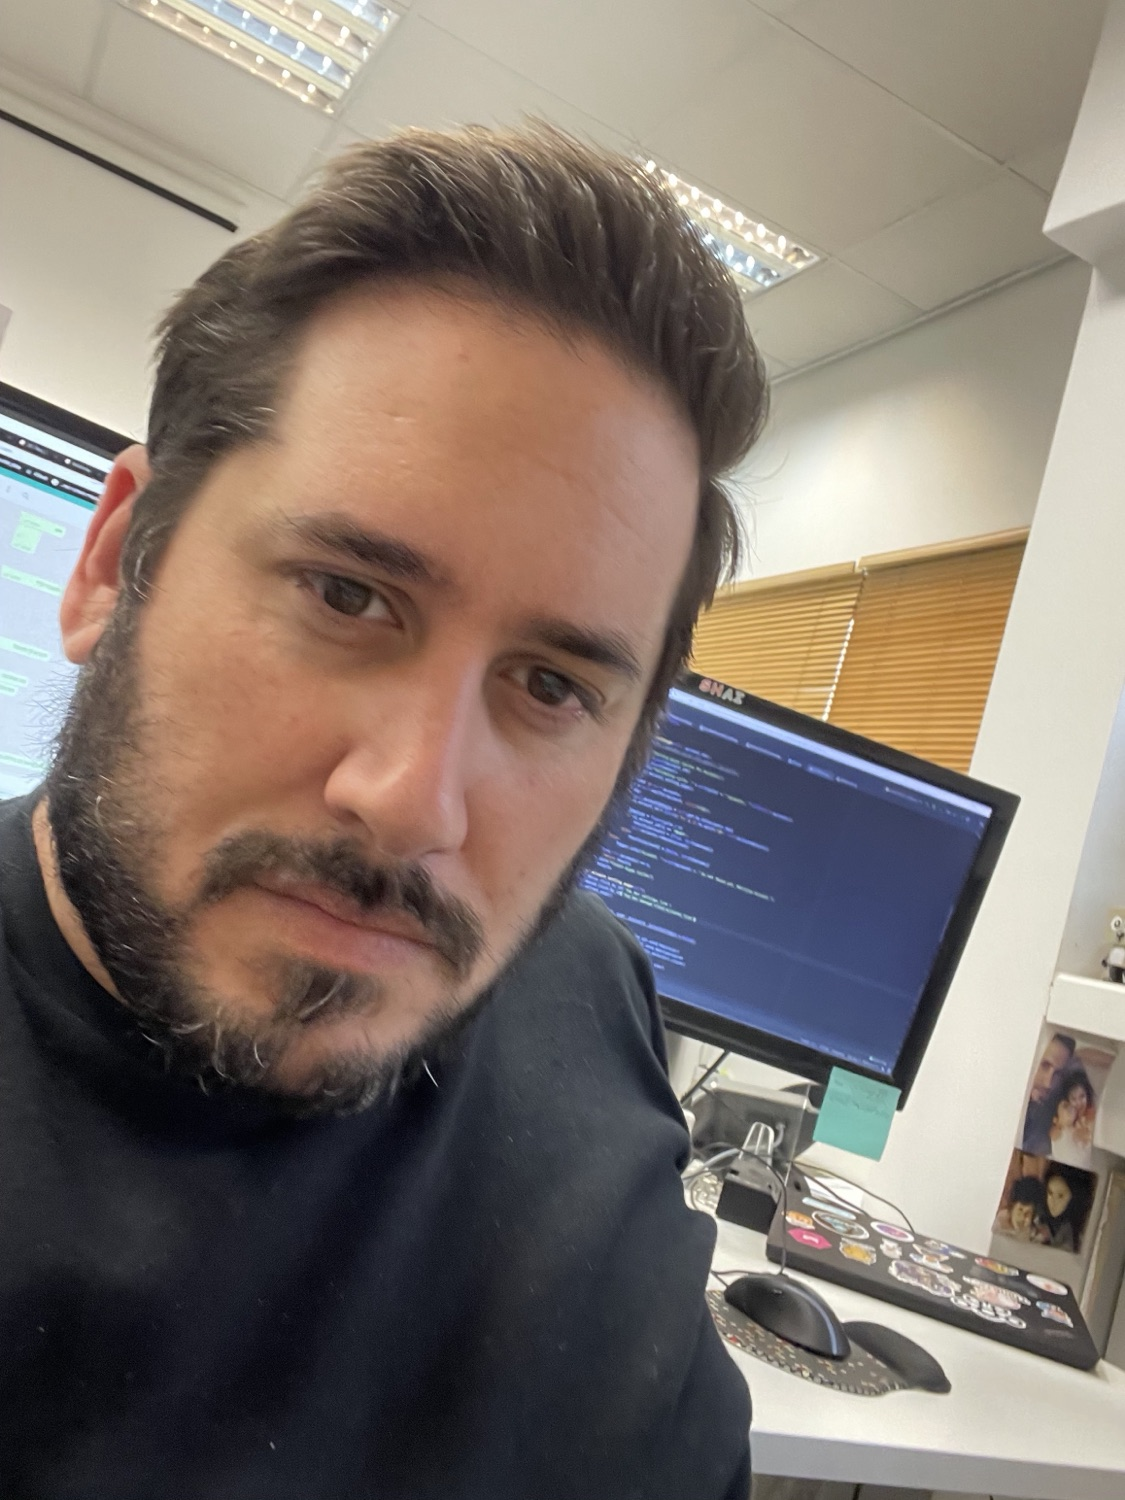
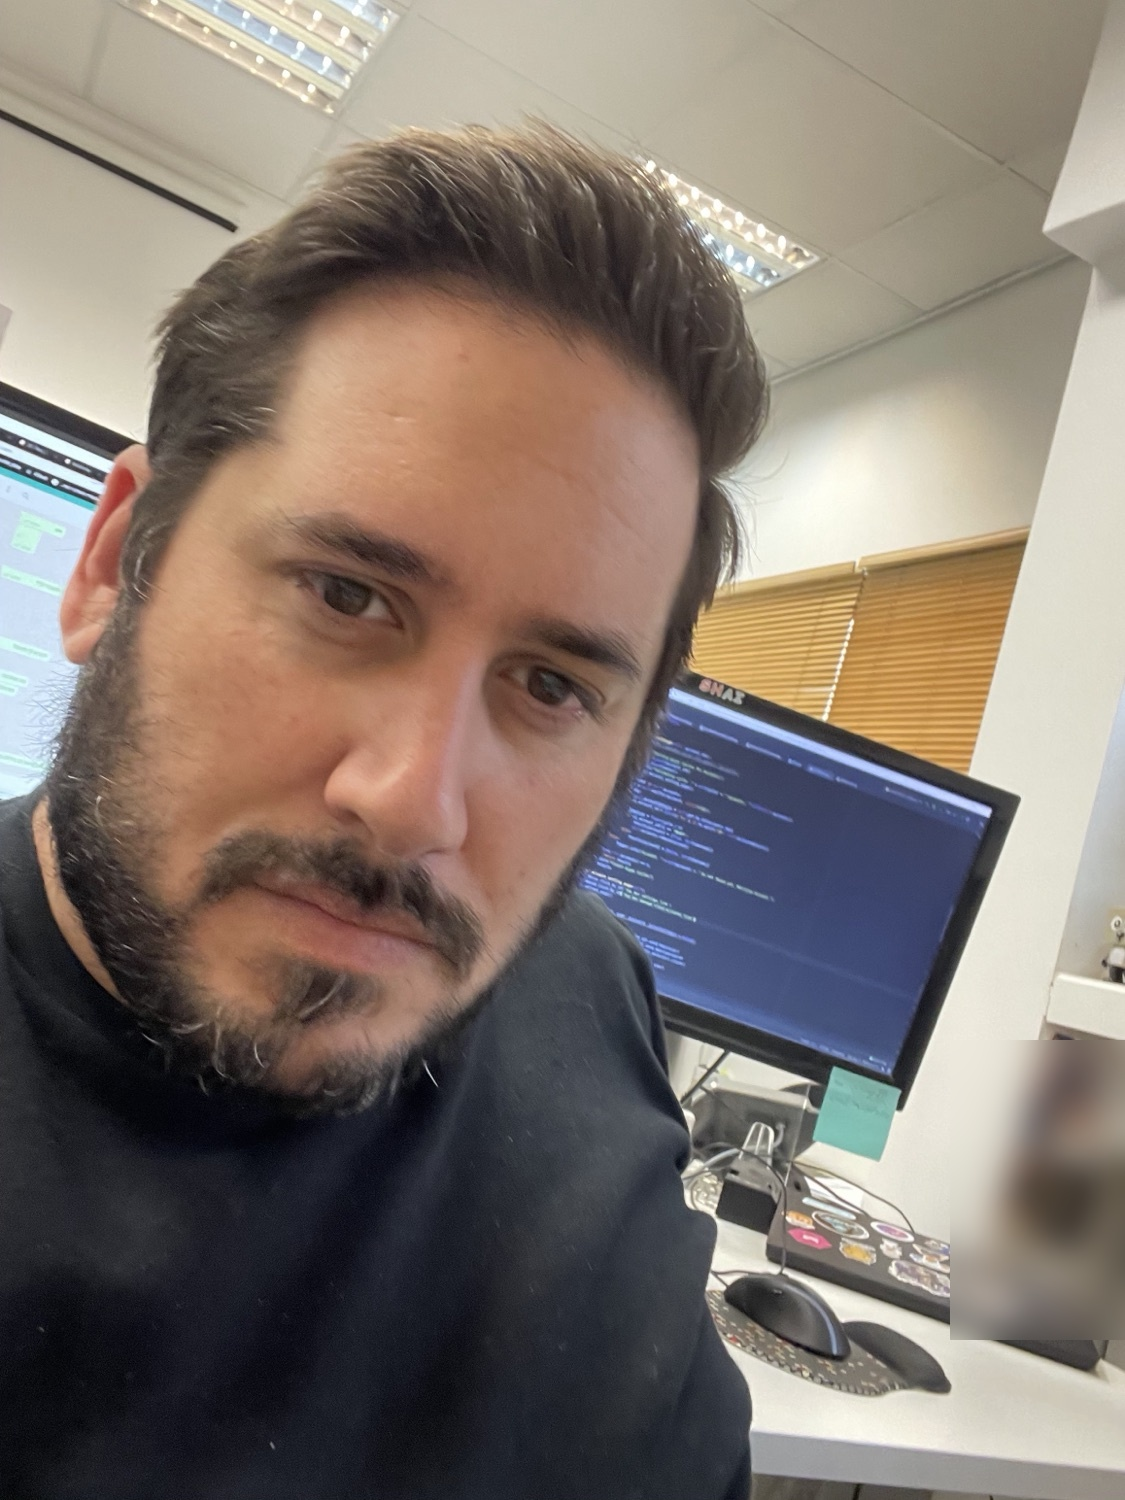
Remove personal info: strip photo GPS/EXIF, drop unused portrait, hide personal email
- Strip EXIF (incl. GPS coordinates), XMP face regions and IPTC from all JPEGs, losslessly where possible
- Blur family photos visible on the shelf in shai-desk.jpg
- Delete assets/shai-portrait.jpg (unused, carried GPS of a private location)
- Remove personal email from the contact section and terminal widget; LinkedIn is the contact route

Claude-Session: https://claude.ai/code/session_01NJJvj8BgXrLuRqyrEx6cNn

Changed region(s): [[0.84, 0.6747, 1.0, 0.92]]

diff --git a/js/terminal.js b/js/terminal.js
@@ -11,7 +11,7 @@
     exp: "2023–now   DevOps Manager ........ Check Point\n2021–2023  DevOps Team Lead ...... Perimeter 81\n2020–2021  Sr DevOps Engineer .... Palo Alto Networks\n2017–2020  Sr DevOps Engineer .... Radware\n2015–2017  Java Software Eng. .... Matomy\n2012–2015  Software Eng. – Auto .. Pitney Bowes\n2009–2012  Tier 3 Support TL ..... Odoro Inc.",
     skills: "cloud    AWS GCP Kubernetes Docker Terraform Terragrunt Helm Lambda EKS GKE\ncicd     GitHub Actions · TeamCity · Jenkins · Ansible · GitOps · Bash\nlang     Python Bash Java JavaScript/Node.js C#\ndata     Airflow Flink Presto Hive SageMaker Redshift MongoDB MySQL SQL",
     certs: "AWS Certified Solutions Architect ........ Sep 2021\nAWS Certified Cloud Developer ............ Dec 2022\nMCSD, Computer Programming — Sela College  2014–2016\nEng. Degree, Civil Engineering — Tel-Hai   2004–2008",
-    contact: "email     shaiperets@me.com\nlinkedin  linkedin.com/in/shai-peretz",
+    contact: "linkedin  linkedin.com/in/shai-peretz\n› the fastest way to reach me is a LinkedIn message",
   };
   OUT.ls = OUT.help; OUT["?"] = OUT.help; OUT.experience = OUT.exp; OUT.stack = OUT.skills;
 

diff --git a/index.html b/index.html
@@ -308,12 +308,8 @@
   <h2 class="contact__title"><span class="line"><span>Let's build</span></span><span class="line"><span>something <em>reliable.</em></span></span></h2>
 
   <div class="contact__row">
-    <a class="magnet" href="mailto:shaiperets@me.com" data-cursor="write">
-      <span class="mono">Email</span>
-      <b>shaiperets@me.com</b>
-    </a>
     <a class="magnet" href="https://linkedin.com/in/shai-peretz" target="_blank" rel="noopener" data-cursor="open">
-      <span class="mono">LinkedIn</span>
+      <span class="mono">LinkedIn · message me there</span>
       <b>/in/shai-peretz</b>
     </a>
   </div>
